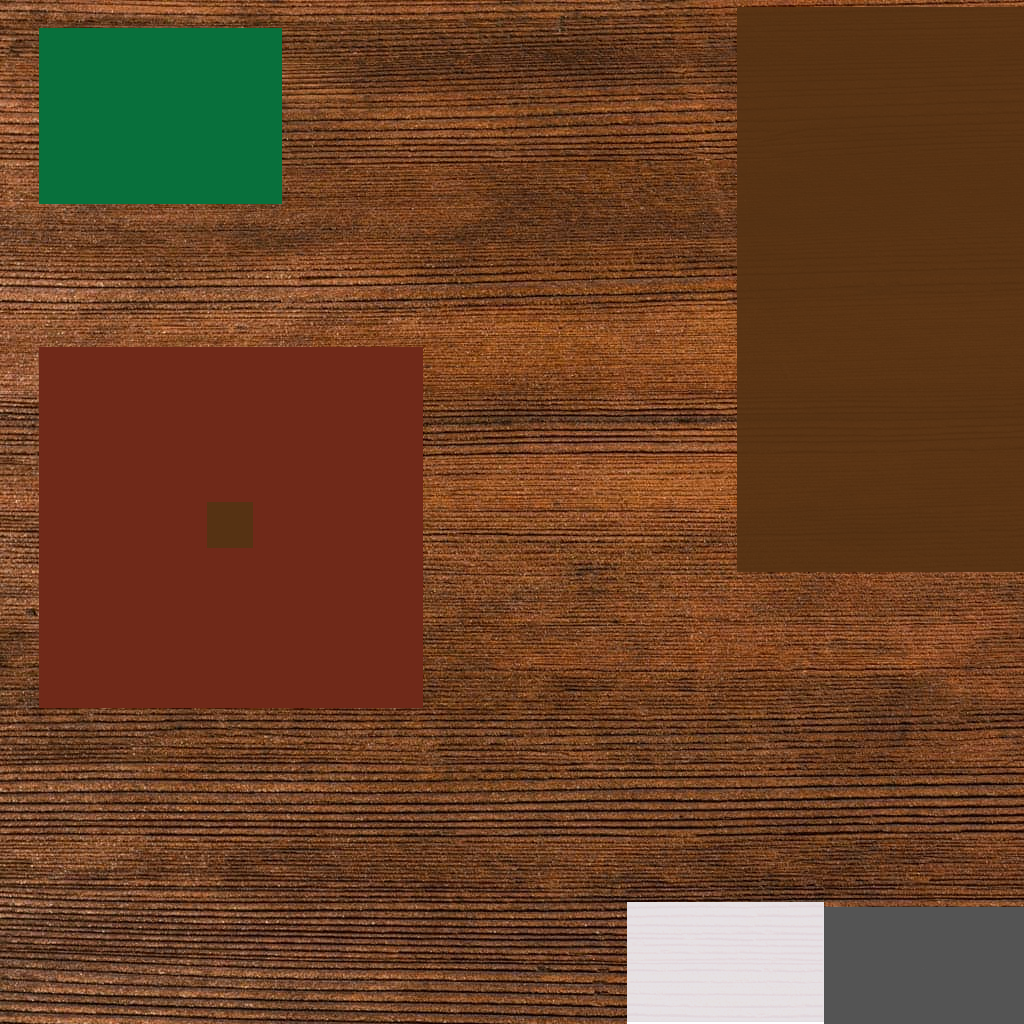
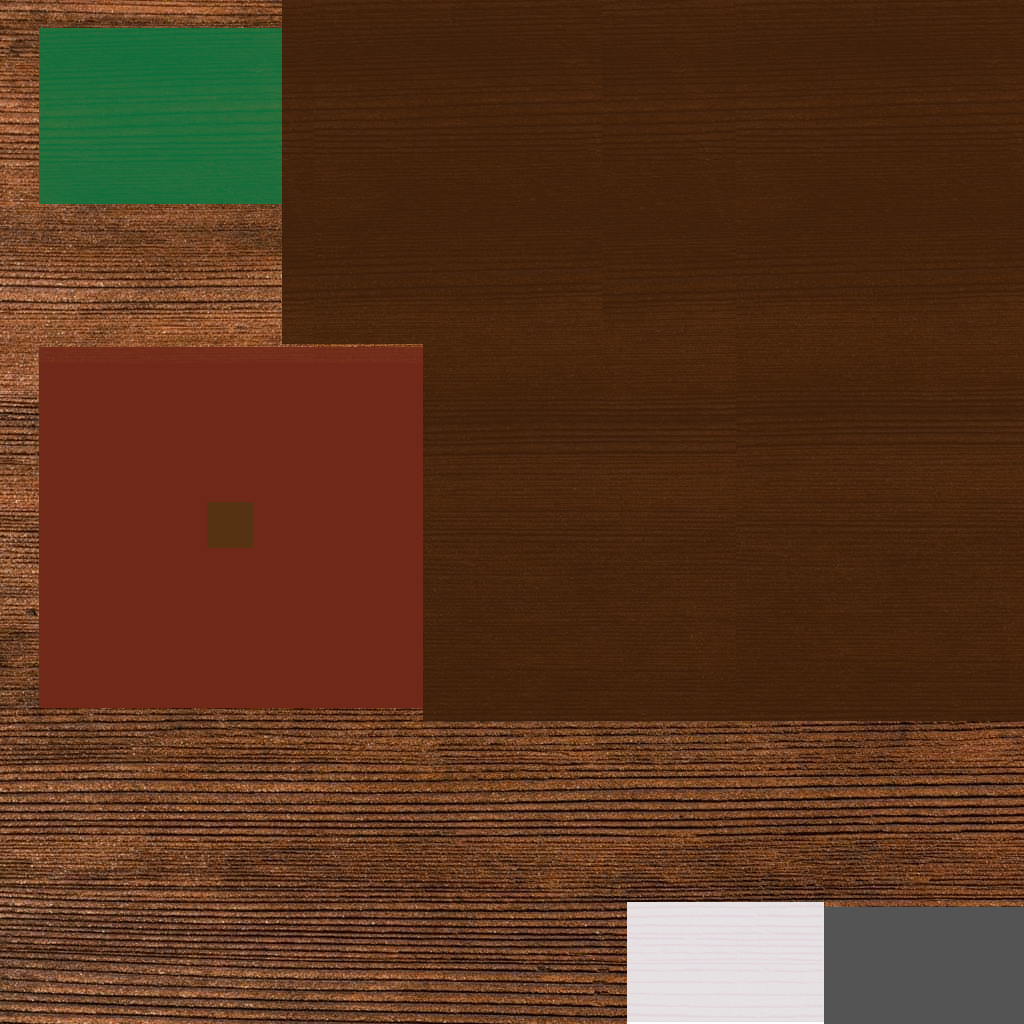
mplat and collectable plant

diff --git a/src/plant.c b/src/plant.c
@@ -4,9 +4,11 @@
 #include "entity.h"
 #include "monster_thinks.h"
 #include "monster.h"
+#include "rigidbody.h"
 
+//Plant will be my collectable
 void snap_to_ground(Entity *self);
-
+void plant_free(Entity *self);
 
 void plant_update(Entity *self){
  Entity *target;
@@ -14,11 +16,21 @@ void plant_update(Entity *self){
     target = entity_check_collide(self, 0);
     if(target == NULL){return;} 
     if(target){
-//        slog("huh");
-        set_think_to_dead(target);
-    
+    //        slog("huh");
+        if(self->data){
+            set_think_to_dead(target);
+        }
+        else{
+            slog("we are collected");
+            monster_collect(target, self);
+            //if(self->free)self->free(self);
+            entity_free(self);
+        }
+
     }
+
 }
+
 GFC_Vector3D startPosPlant,  plantVelocityX, plantVelocityY;  
 float moveValForPlant = .1;
 
@@ -67,7 +79,7 @@ void plant_think(Entity *self){
     }*/
 }
 
-Entity *plant_spawn(GFC_Vector3D position, GFC_Color Color){
+Entity *plant_spawn(GFC_Vector3D position, GFC_Color Color, int isToxic){
     Entity *self;
     self = entity_new();
     if (!self)
@@ -82,7 +94,7 @@ Entity *plant_spawn(GFC_Vector3D position, GFC_Color Color){
 
     self->think = plant_think;
     self->update = plant_update;
-
+    //self->free = plant_free;
 
     //The plant has radius 40 and height 20
     //Centered at the bottom middle
@@ -98,6 +110,21 @@ Entity *plant_spawn(GFC_Vector3D position, GFC_Color Color){
     self->bounds->h = 2; //this is a fucking lie
     self->bounds->d = 10; //This is the real height :eyeroll:
 
+    self->rigidbody_data = gfc_allocate_array(sizeof(Rigidbody), 1);
+    ((struct Rigidbody*)self->rigidbody_data)->mass_inverse = 0;
+    ((struct Rigidbody*)self->rigidbody_data)->bounciness = 0;
+    ((struct Rigidbody*)self->rigidbody_data)->owner = self;
+    gfc_vector3d_copy(((struct Rigidbody*)self->rigidbody_data)->position, self->position);
+    
+    ((struct Rigidbody*)self->rigidbody_data)->rigid_sphere = gfc_allocate_array(sizeof(GFC_Sphere), 1);
+    ((struct Rigidbody*)self->rigidbody_data)->rigid_sphere->r = 1;
+    ((struct Rigidbody*)self->rigidbody_data)->rigid_sphere->x = position.x;
+    ((struct Rigidbody*)self->rigidbody_data)->rigid_sphere->y = position.y;
+    ((struct Rigidbody*)self->rigidbody_data)->rigid_sphere->z = position.z;
+    ((struct Rigidbody*)self->rigidbody_data)->onFloor = 0;
+
+    self->data = gfc_allocate_array(sizeof(int), 1);
+    self->data = isToxic;
     strcpy(self->name, "plant");
 
     return self;
@@ -117,6 +144,13 @@ void snap_to_ground(Entity *self)
     self->position.z = contact->z-5;
     
     free(contact);
+}
+
+void plant_free(Entity *self){
+    slog("we are free in theory");
+    //rigidbody_free(self->rigidbody_data);
+    //entity_free(self);
+    //free(self);
 }
 
 #endif

diff --git a/src/world.c b/src/world.c
@@ -63,6 +63,7 @@ void spawn_by_types(SJson *ents){
     GFC_Vector3D pos;
     int i, count, kind, pair;
     //MP?
+        Entity * dummyEnt;
     SJson *movepads = sj_object_get_value(ents, "movepads");
     if (movepads) {
         count = sj_array_get_count(movepads);
@@ -78,7 +79,8 @@ void spawn_by_types(SJson *ents){
         for (i = 0; i < count; i++) {
             SJson *bp = sj_array_get_nth(bps, i);
             sj_object_get_vector3d(bp, "pos", &pos);
-            bp_spawn(pos, GFC_COLOR_WHITE);
+            dummyEnt = bp_spawn(pos, GFC_COLOR_WHITE);
+            physics_world_add(*(Rigidbody*)dummyEnt->rigidbody_data);
         }
     }
 
@@ -96,7 +98,7 @@ void spawn_by_types(SJson *ents){
         }
     }
 
-    Entity * dummyEnt;
+
     SJson *enemies = sj_object_get_value(ents, "enemies");
     if (enemies) {
          count = sj_array_get_count(enemies);
@@ -109,7 +111,8 @@ void spawn_by_types(SJson *ents){
                 saucer_spawn(pos, GFC_COLOR_WHITE);
             }
             else if (strcmp(type, "plant") == 0) {
-                plant_spawn(pos, GFC_COLOR_WHITE);
+                //TODO Put the isToxic flag
+                plant_spawn(pos, GFC_COLOR_WHITE, false);
             }
             else if (strcmp(type, "bug") == 0) {
                 dummyEnt = bug_spawn(pos, GFC_COLOR_WHITE);

diff --git a/src/bouncepad.c b/src/bouncepad.c
@@ -2,6 +2,7 @@
 #include "entity.h"
 #include "world.h"
 #include "monster.h"
+#include "rigidbody.h"
 
 int i = 0;
 
@@ -55,7 +56,20 @@ Entity *bp_spawn(GFC_Vector3D position, GFC_Color color){
     self->bounds->w = 24;
     self->bounds->h = 24;
     self->bounds->d = 4;//?
+        
+    self->rigidbody_data = gfc_allocate_array(sizeof(Rigidbody), 1);
+    ((struct Rigidbody*)self->rigidbody_data)->mass_inverse = 0;
+    ((struct Rigidbody*)self->rigidbody_data)->bounciness = 0;
+    ((struct Rigidbody*)self->rigidbody_data)->owner = self;
+    gfc_vector3d_copy(((struct Rigidbody*)self->rigidbody_data)->position, self->position);
     
+    ((struct Rigidbody*)self->rigidbody_data)->rigid_sphere = gfc_allocate_array(sizeof(GFC_Sphere), 1);
+    ((struct Rigidbody*)self->rigidbody_data)->rigid_sphere->r = 1;
+    ((struct Rigidbody*)self->rigidbody_data)->rigid_sphere->x = position.x;
+    ((struct Rigidbody*)self->rigidbody_data)->rigid_sphere->y = position.y;
+    ((struct Rigidbody*)self->rigidbody_data)->rigid_sphere->z = position.z;
+    ((struct Rigidbody*)self->rigidbody_data)->onFloor = 0;
+
     strcpy(self->name, "bp");
     return self;
 }

diff --git a/src/game.c b/src/game.c
@@ -124,6 +124,7 @@ int main(int argc,char *argv[])
         //slog("Spawing level 2");
         spawn_level(3);
     }*/
+    int collected = 0;
     world = world_get_the();
     //main loop: everything in here is run repeatedly
     while(!_done)
@@ -135,7 +136,7 @@ int main(int argc,char *argv[])
             started = true;
         }
         timer++;
-            
+        collected = monster_get_collected();
 
         gfc_input_update();
         gf2d_mouse_update();
@@ -197,6 +198,10 @@ int main(int argc,char *argv[])
                     gf2d_font_draw_line_tag("Press Space to Begin",FT_H1,GFC_COLOR_BLACK, gfc_vector2d(20,60));
                     
                     gf2d_font_draw_line_tag("Alt + F4 to Quit",FT_H1,GFC_COLOR_BLACK, gfc_vector2d(20,100));
+                }
+                else{
+                    //TODO To string the stupid thing
+                     gf2d_font_draw_line_tag("",FT_H1,GFC_COLOR_BLACK, gfc_vector2d(20,100));
                 }
                     //gf2d_font_draw_line_tag("WOMBO COMBO",FT_H1,GFC_COLOR_BLACK, gfc_vector2d(10,10));
                 //gf2d_mouse_draw();

diff --git a/src/monster.c b/src/monster.c
@@ -477,6 +477,7 @@ void monster_data_init(Entity *self)
     MonsterEntityData *data;
     data = malloc(sizeof(MonsterEntityData));
     MonsterData = data;
+    MonsterData->collected = 0;
 }
 
 Entity *monster_spawn(GFC_Vector3D position, GFC_Color Color)
@@ -647,6 +648,14 @@ void set_think_for_movement(Entity *self, Uint8 flag){
         self->update = glide_update;
         //self->rotation.y = GFC_PI/.33;
     }
+    
+    if(flag == 3){
+        self->think = monster_think;
+        self->update = monster_update;
+        self->rotation.y = 0;
+        self->rotation.x = 0;
+        //self->rotation.y = GFC_PI/.33;
+    }
 
 }
 
@@ -666,6 +675,13 @@ long long get_timer_from_player(){
 MonsterEntityData * get_data_from_player(){
     return MonsterData;
 
+}
+void monster_collect(Entity *self, Entity *target){
+    MonsterData->collected++;
+}
+
+int monster_get_collected(){
+    return MonsterData->collected;
 }
 
 /*eol@eof*/

diff --git a/src/monster.h b/src/monster.h
@@ -10,6 +10,7 @@ typedef struct
     GFC_Vector3D        forward;
     Uint8               jumpAllowed;
     Uint8               sprinting;
+    int                 collected;
 } MonsterEntityData; // Padding?
 
 Entity *monster_spawn(GFC_Vector3D position, GFC_Color Color);
@@ -29,6 +30,7 @@ void monster_control(Entity *self);
 void set_think_to_bounce(Entity *self, Uint8 flag);
 void set_think_for_movement(Entity *self, Uint8 flag);
 void set_think_to_dead(Entity *self);
+void monster_collect(Entity *self, Entity *target);
 
 long long get_timer_from_player();
 

diff --git a/src/monster_thinks.c b/src/monster_thinks.c
@@ -286,6 +286,7 @@ void glide_update(Entity *self){
         if (!self)
         return;
     monster_move(self, 2);
+    
     self->position.z += self->velocity.z;
 
     self->bounds->x = self->position.x-4;
@@ -298,7 +299,8 @@ void glide_update(Entity *self){
     ((struct Rigidbody*)self->rigidbody_data)->rigid_sphere->z = self->position.z;
     //Set your rotation funky
         //self->rotation.z +=.01;
-        self->rotation.x +=.01;
+        self->rotation.z +=.01;
+        self->rotation.y +=.01;
 
     monster_update_bounds(self);
 }

diff --git a/src/m_plat.c b/src/m_plat.c
@@ -7,6 +7,7 @@
 #include "gf3d_obj_load.h"
 #include "world.h"
 #include "m_plat.h"
+#include "monster_thinks.h"
 
 float initalX, initalY;
 float moveBy = .1;
@@ -25,7 +26,11 @@ void mp_update(Entity *self){
     if(target == NULL){return;} 
     if(target){
         //slog("We hit it");
+        if(target->think = glide_think){
+            set_think_for_movement(target, 3);
+        }
         target->position.z = self->position.z+8;
+        
         //target->velocity.z = -.00001;
         //slog("target %f", target->velocity.z);
 

diff --git a/src/plant.h b/src/plant.h
@@ -8,4 +8,4 @@
 #include "monster_thinks.h"
 
 
-Entity *plant_spawn(GFC_Vector3D position, GFC_Color Color);
+Entity *plant_spawn(GFC_Vector3D position, GFC_Color Color, int isToxic);
